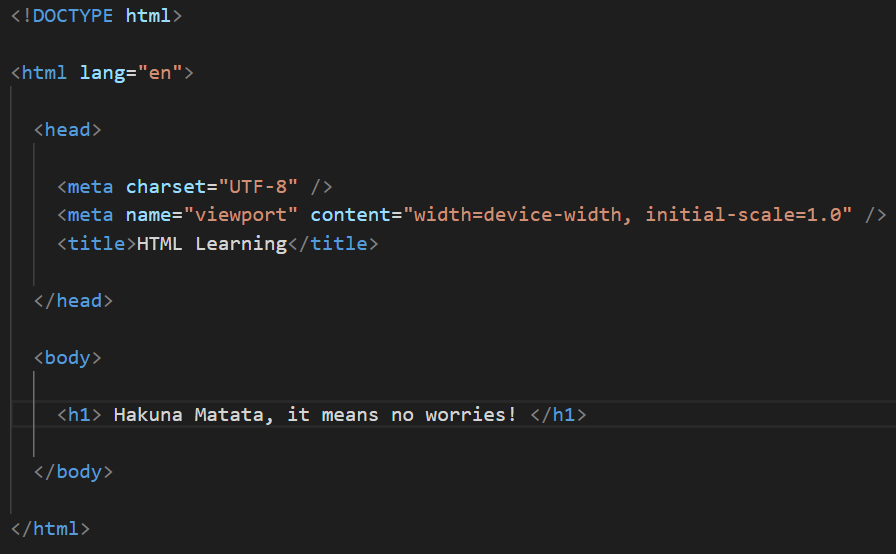
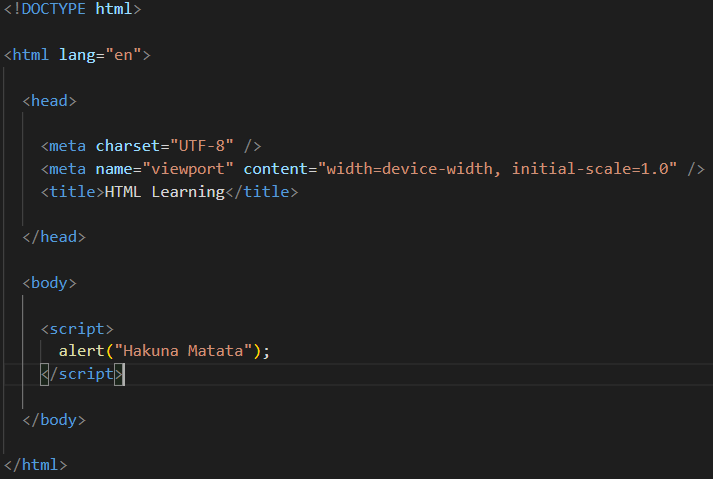
Updated Notes

diff --git a/Absolute Beginner's Guide/Chapter 1 Hello, World!/CodeSnippet/HakunaMatata.html b/Absolute Beginner's Guide/Chapter 1 Hello, World!/CodeSnippet/HakunaMatata.html
@@ -12,7 +12,9 @@
 
   <body>
 
-    <h1> Hakuna Matata, it means no worries! </h1>
+    <script>
+      alert("Hakuna Matata");
+    </script>
 
   </body>
 

diff --git a/Absolute Beginner's Guide/Chapter 1 Hello, World!/TheHTMLDocument.md b/Absolute Beginner's Guide/Chapter 1 Hello, World!/TheHTMLDocument.md
@@ -37,6 +37,6 @@ What do we have?
 />
 - This contains all the content that you want to show to web users when they visit your page, whether that's text, images, videos, games, playable audio tracks or whatever else.
 
-<img src="C:\Users\wamon\Desktop\Self_Learning-JavaScript\Absolute Beginner's Guide\Chapter 1 Hello, World!\CodeSnippet\htmlSnippet\HeadingElement.PNG"
+ <img src="C:\Users\wamon\Desktop\Self_Learning-JavaScript\Absolute Beginner's Guide\Chapter 1 Hello, World!\CodeSnippet\htmlSnippet\ScriptElement.PNG"
 />
-- Heading elements allow you to specify that certain parts of your content are headings — or subheadings. 
+-  Is used to embed or reference executable code; this is typically used to embed or refer to JavaScript code.
